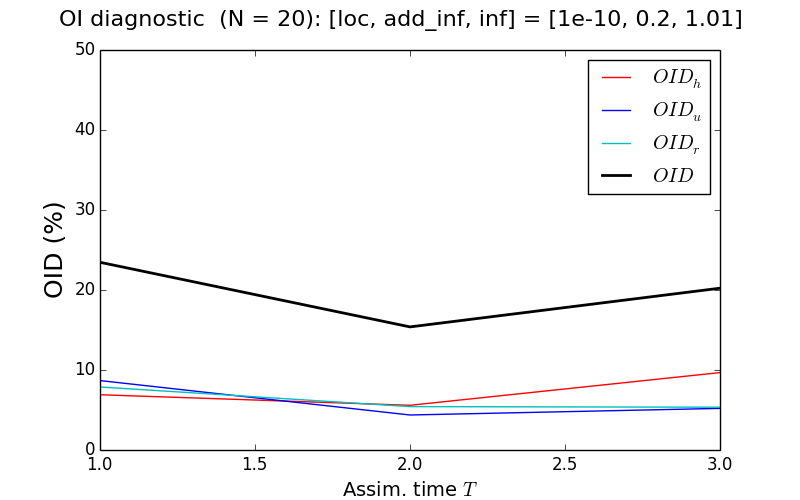
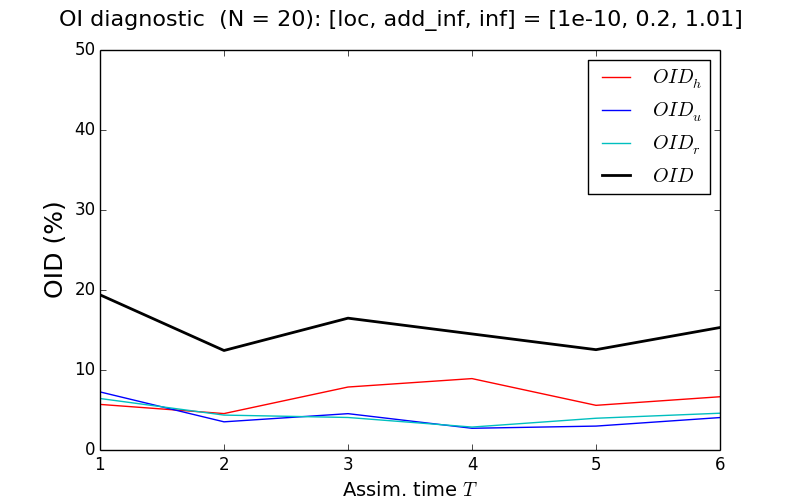
tkmac

diff --git a/f_enkf_modRSW.py b/f_enkf_modRSW.py
@@ -38,7 +38,7 @@ def generate_truth(U_tr_array, B_tr, Nk_tr, tr_grid, assim_time, f_path_name):
 
     index = 1 # for U_tr_array (start from 1 as 0 contains IC).
     while tn < tmax:
-        dt = time_step(U_tr,Kk_tr,cfl_tr)
+        dt = time_step(U_tr,B_tr,Kk_tr,cfl_tr)
         tn = tn + dt
 
         if tn > tmeasure:

diff --git a/README.md b/README.md
@@ -216,6 +216,14 @@ In the idealised DA experiments outlined here, the Nk=200 simulation represents 
 
 Conceptually, the basic data assimilation problem can be summarised using this figure: adjust the forecast (left) using pseudo-observations (generated by noisy samples of the nature run) in order to provide a better estimate of the nature run (right).
 
+## Ideas for experimenting...
+
+Dynamics only:
+* Implement alternative initial/boundary conditions. What would be a good candidate for specified chaotic/aperiodic inflow conditions?
+* Run for longer times (increase `Nmeas`)
+* Investigate the effect of varying parameters pertaining to convection/precipitation (i.e., alpha, beta, c02)
+* ...
+
 ### 2. Idealised forecast-assimilation experiments
 
 #### Running an experiment
@@ -242,7 +250,7 @@ Name | Parameter      | Values
 No. of elements | Nk_fc | 200
 Mesh refinement factor | dres  | 4  
 Ensemble size | n_ens  | 20
-No. of cycles | Nmeas  | 3
+No. of cycles | Nmeas  | 6
 IC noise | sig_ic | [0.05,0.05,0.0]   
 Obs. noise | ob_noise | [0.1,0.05,0.005]
 Obs. density | o_d | 50
@@ -388,5 +396,3 @@ CRPS as a function of x at T=36: forecast (red) and analysis (blue) ensemble.
 Generally, the ensembles are less reliable (higher CRPS values) in regions of convection and precipitation (again, around x=0.05 here). Domain-averaged values are given in the top-right corner.
 
 ***NOTE AGAIN: this is a test case, not a well-tuned experiment! See chapter 6 (specifically figs. 6.10-6.12) of Kent (2016) for an example of a well-tuned experiment with comparable spread and error, reasonable OID and CRPS.***
-
-## Adapting the code
